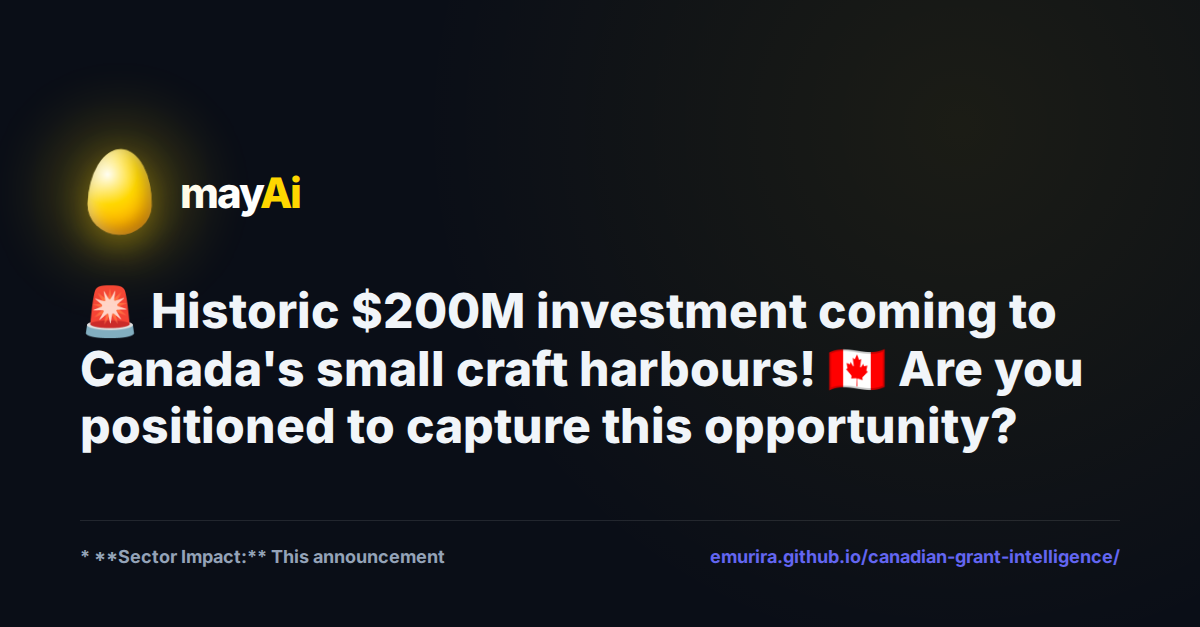
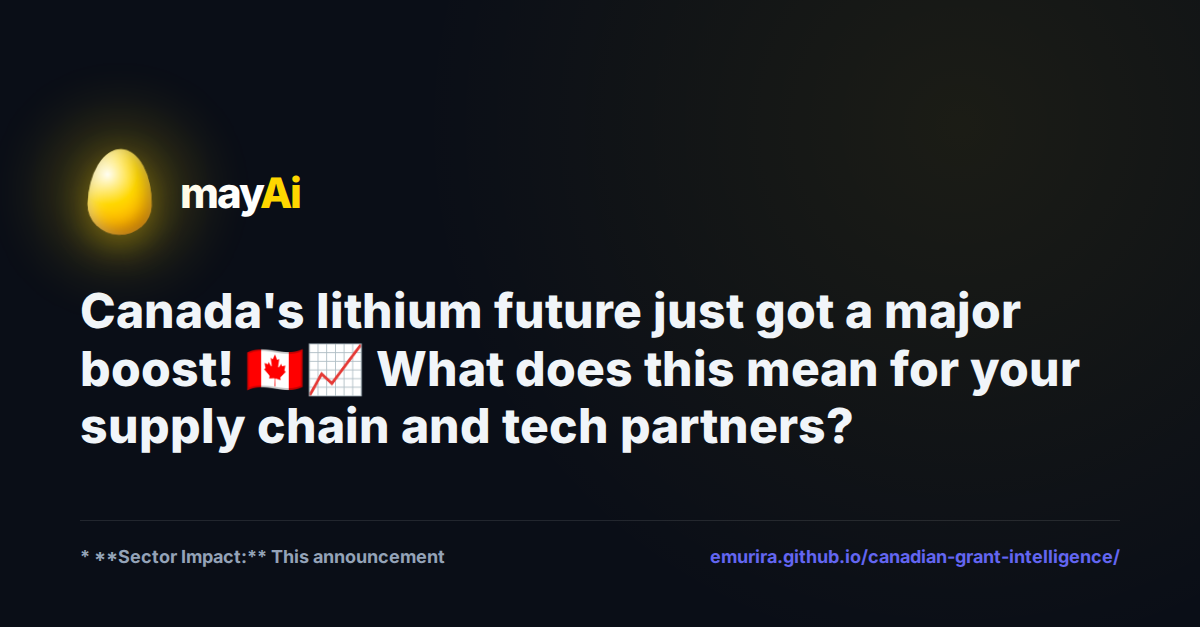
Automated Daily Grant Report: 2026-05-13

Changed region(s): [[0.0617, 0.4545, 0.925, 0.7273]]

diff --git a/reports/grants/canadian_grants_2026-05-13.md b/reports/grants/canadian_grants_2026-05-13.md
@@ -8,37 +8,37 @@ Daily automated scan of federal, provincial, and municipal 'Golden Opportunity' 
 
 > *Copy-paste ready for LinkedIn. Full analysis below.*
 
-🇨🇦 **Unlock Your Next Big Contract: Today's Canadian Government Funding & Procurement Briefing**
+💡 **Canada's funding landscape is buzzing – discover what's driving growth!**
 
-Significant investments are being made to bolster Canada's marine infrastructure. Keep an eye on the historic announcement regarding small craft harbours in New Brunswick; businesses in maritime services, construction, and engineering should monitor this closely for opportunities to support critical coastal development.
+Today's headlines highlight significant investment in critical resources. The Canada Growth Fund's backing for Canada's largest operating lithium mine signals a strong push towards battery mineral supply chains. Companies involved in mining, processing, and related technological advancements should monitor this closely for potential partnership and expansion opportunities.
 
-Beyond infrastructure, the government continues to signal its commitment to innovation. While specific details for today are limited, remember that a consistent theme is supporting Canadian businesses in cutting-edge sectors. Watch for emerging announcements that align with national priorities in technology and sustainability.
+This strategic investment underscores the government's commitment to bolstering domestic resource production. Stay ahead of the curve by understanding how these developments can shape your business strategy and unlock new avenues for growth.
 
 Full analysis with co-bidding strategies and strategic breakdowns 👉 https://emurira.github.io/canadian-grant-intelligence/
 
-#CanadianGovernment #Procurement #Funding #BusinessCanada #GovernmentContracts
+#CanadianFunding #GovernmentProcurement #BusinessIntelligence #CanadaGrowth #ResourceSector
 
 ---
 
 ## 📊 Detailed Analysis
 
-## Minister Champagne in New Brunswick to announce historic investments in Canada’s small craft harbours
+## Government welcomes Canada Growth Fund investment to support the expansion of Canada’s largest operating lithium mine
 **Source:** Finance_Canada | **Date:** 2026-05-13
 
 ### 1. LinkedIn Hook:
-> 🚨 Historic $200M investment coming to Canada's small craft harbours! 🇨🇦 Are you positioned to capture this opportunity?
+> Canada's lithium future just got a major boost! 🇨🇦📈 What does this mean for your supply chain and tech partners?
 
 ### 2. Strategic Value for Canadian Businesses:
-*   **Sector Impact:** This announcement signals a significant federal commitment to revitalizing Canada's marine infrastructure, particularly for small and medium-sized enterprises (SMEs) in the fishing, tourism, and transportation sectors. Expect increased demand for construction, engineering, and maintenance services related to harbours and related facilities.
-*   **Economic Signals:** The substantial investment indicates a focus on job creation, regional economic development, and strengthening coastal communities. This could lead to long-term opportunities beyond the initial construction phase, including operational support and technology upgrades.
-*   **Infrastructure Modernization:** The "historic" nature of the investment suggests a move beyond routine maintenance to potentially include modernizations, climate resilience upgrades, and the integration of new technologies for efficiency and sustainability. This presents opportunities for innovative solutions.
+*   **Sector Impact:** This announcement signals significant government commitment to critical mineral extraction, specifically lithium, positioning Canada as a key player in the global clean energy transition and battery supply chain.
+*   **Technical Anchors:** Focus on mining technology, extraction methods, processing, and environmental remediation. Opportunities may arise in equipment supply, specialized services, and advanced materials related to lithium production.
+*   **Economic Signals:** The investment indicates strong growth prospects for the mining sector and related industries, potentially driving demand for skilled labour, infrastructure development, and advanced manufacturing capabilities within Canada.
 
 ### 3. Co-Bidding Opportunity:
-*   **Complexity of Marine Infrastructure:** Revitalizing and upgrading small craft harbours often involves a complex mix of civil engineering (dredging, breakwaters, docks), environmental assessments, electrical and mechanical systems, and potentially IT integration for management and communication. No single firm may possess all the specialized expertise required.
-*   **Geographic Distribution & Scale:** Investments across multiple small craft harbours, potentially in diverse coastal regions, may necessitate a distributed approach to project management, logistics, and local labour engagement. A consortium can pool resources to manage this scale and geographic spread effectively.
-*   **Specialized Expertise:** Specific projects might require specialized knowledge in areas such as environmental remediation, advanced mooring systems, navigation aids, or sustainable energy solutions for harbour operations. Partnerships allow for the integration of niche expertise to meet stringent project requirements and deliver comprehensive solutions.
+*   **Technical Gap:** While the announcement focuses on expansion, there's often a need for specialized expertise in advanced processing techniques, sustainable extraction, and downstream battery component manufacturing that a single entity may not possess.
+*   **Operational Gap:** Large-scale mining projects require a robust ecosystem of support services, including logistics, environmental consulting, engineering, specialized labour, and technology integration. Forming a consortium can ensure comprehensive coverage and risk mitigation.
+*   **Why Partnerships are Favored:** A consortium can bring together diverse capabilities, share the significant capital investment and risks associated with expanding a major mine and its associated infrastructure, and provide a more compelling and complete solution to the government and the mine operator. It allows for specialized firms to focus on their core competencies while contributing to a larger, strategic national objective.
 
-[Link to Opportunity](https://www.canada.ca/en/department-finance/news/2026/05/minister-champagne-in-new-brunswick-to-announce-historic-investments-in-canadas-small-craft-harbours.html)
+[Link to Opportunity](https://www.canada.ca/en/department-finance/news/2026/05/government-welcomes-canada-growth-fund-investment-to-support-the-expansion-of-canadas-largest-operating-lithium-mine.html)
 
 ---
 

diff --git a/reports/linkedin/latest_post.md b/reports/linkedin/latest_post.md
@@ -1,11 +1,11 @@
 # LinkedIn Post - 2026-05-13
 
-🇨🇦 **Unlock Your Next Big Contract: Today's Canadian Government Funding & Procurement Briefing**
+💡 **Canada's funding landscape is buzzing – discover what's driving growth!**
 
-Significant investments are being made to bolster Canada's marine infrastructure. Keep an eye on the historic announcement regarding small craft harbours in New Brunswick; businesses in maritime services, construction, and engineering should monitor this closely for opportunities to support critical coastal development.
+Today's headlines highlight significant investment in critical resources. The Canada Growth Fund's backing for Canada's largest operating lithium mine signals a strong push towards battery mineral supply chains. Companies involved in mining, processing, and related technological advancements should monitor this closely for potential partnership and expansion opportunities.
 
-Beyond infrastructure, the government continues to signal its commitment to innovation. While specific details for today are limited, remember that a consistent theme is supporting Canadian businesses in cutting-edge sectors. Watch for emerging announcements that align with national priorities in technology and sustainability.
+This strategic investment underscores the government's commitment to bolstering domestic resource production. Stay ahead of the curve by understanding how these developments can shape your business strategy and unlock new avenues for growth.
 
 Full analysis with co-bidding strategies and strategic breakdowns 👉 https://emurira.github.io/canadian-grant-intelligence/
 
-#CanadianGovernment #Procurement #Funding #BusinessCanada #GovernmentContracts
+#CanadianFunding #GovernmentProcurement #BusinessIntelligence #CanadaGrowth #ResourceSector
